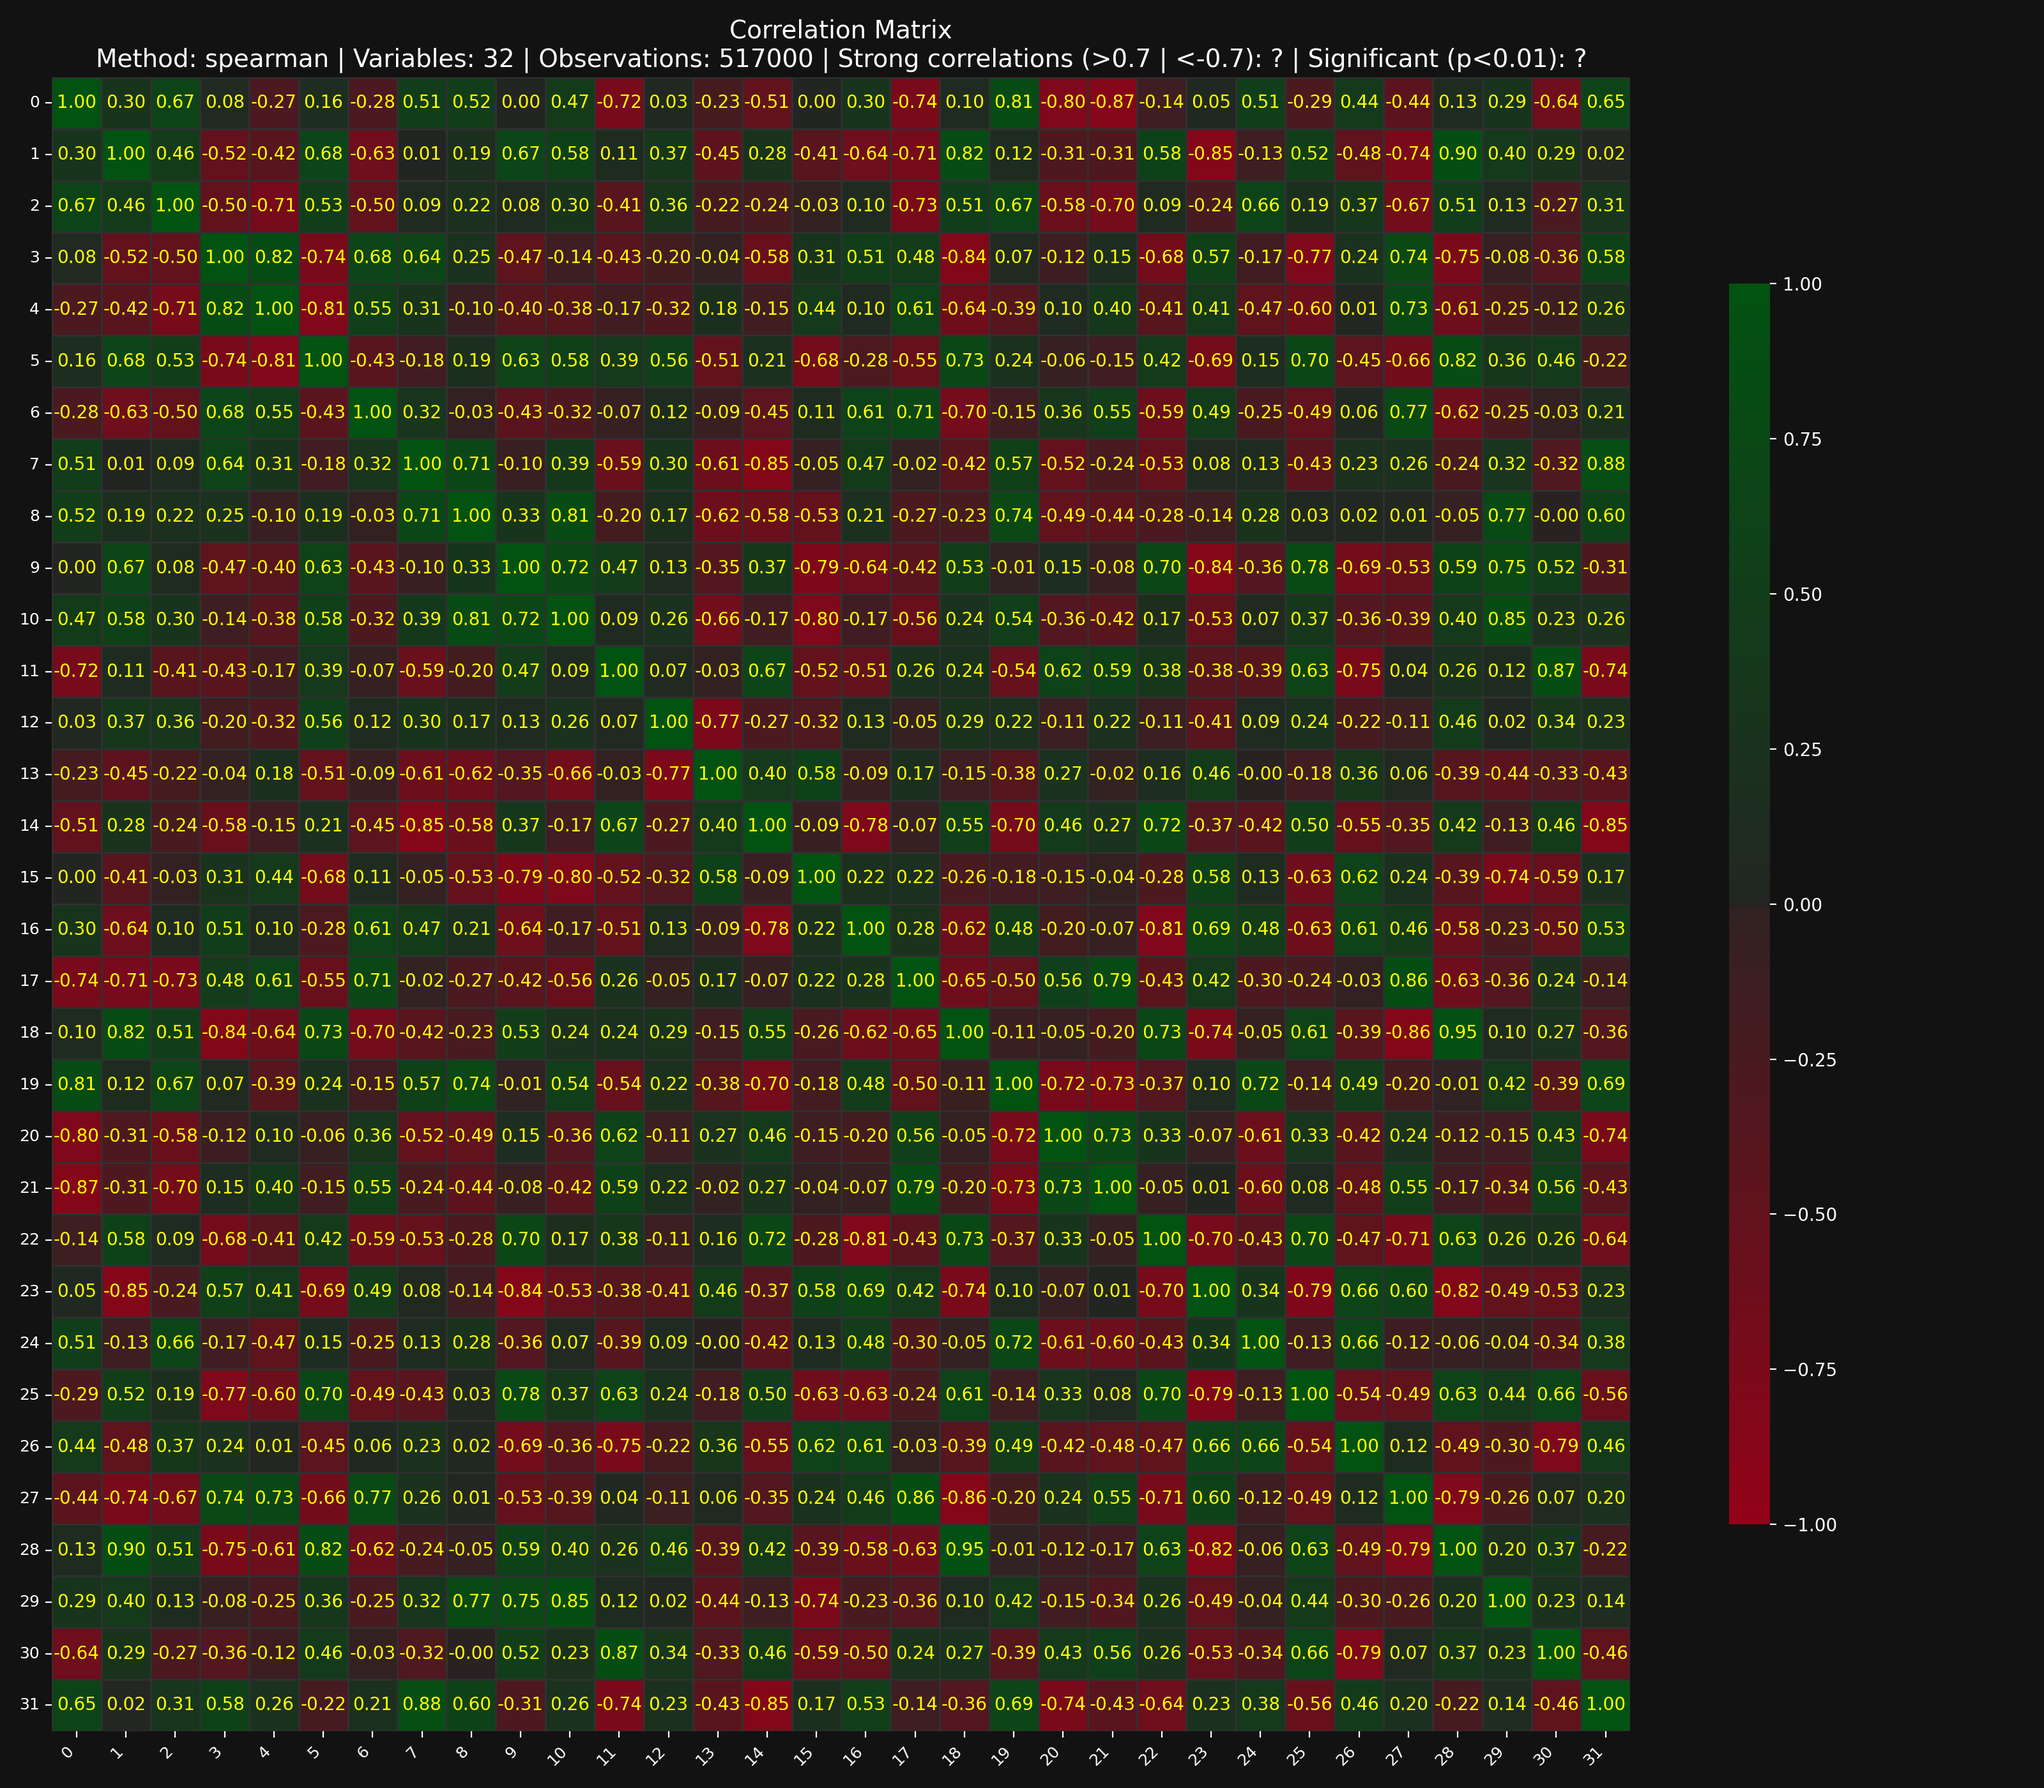
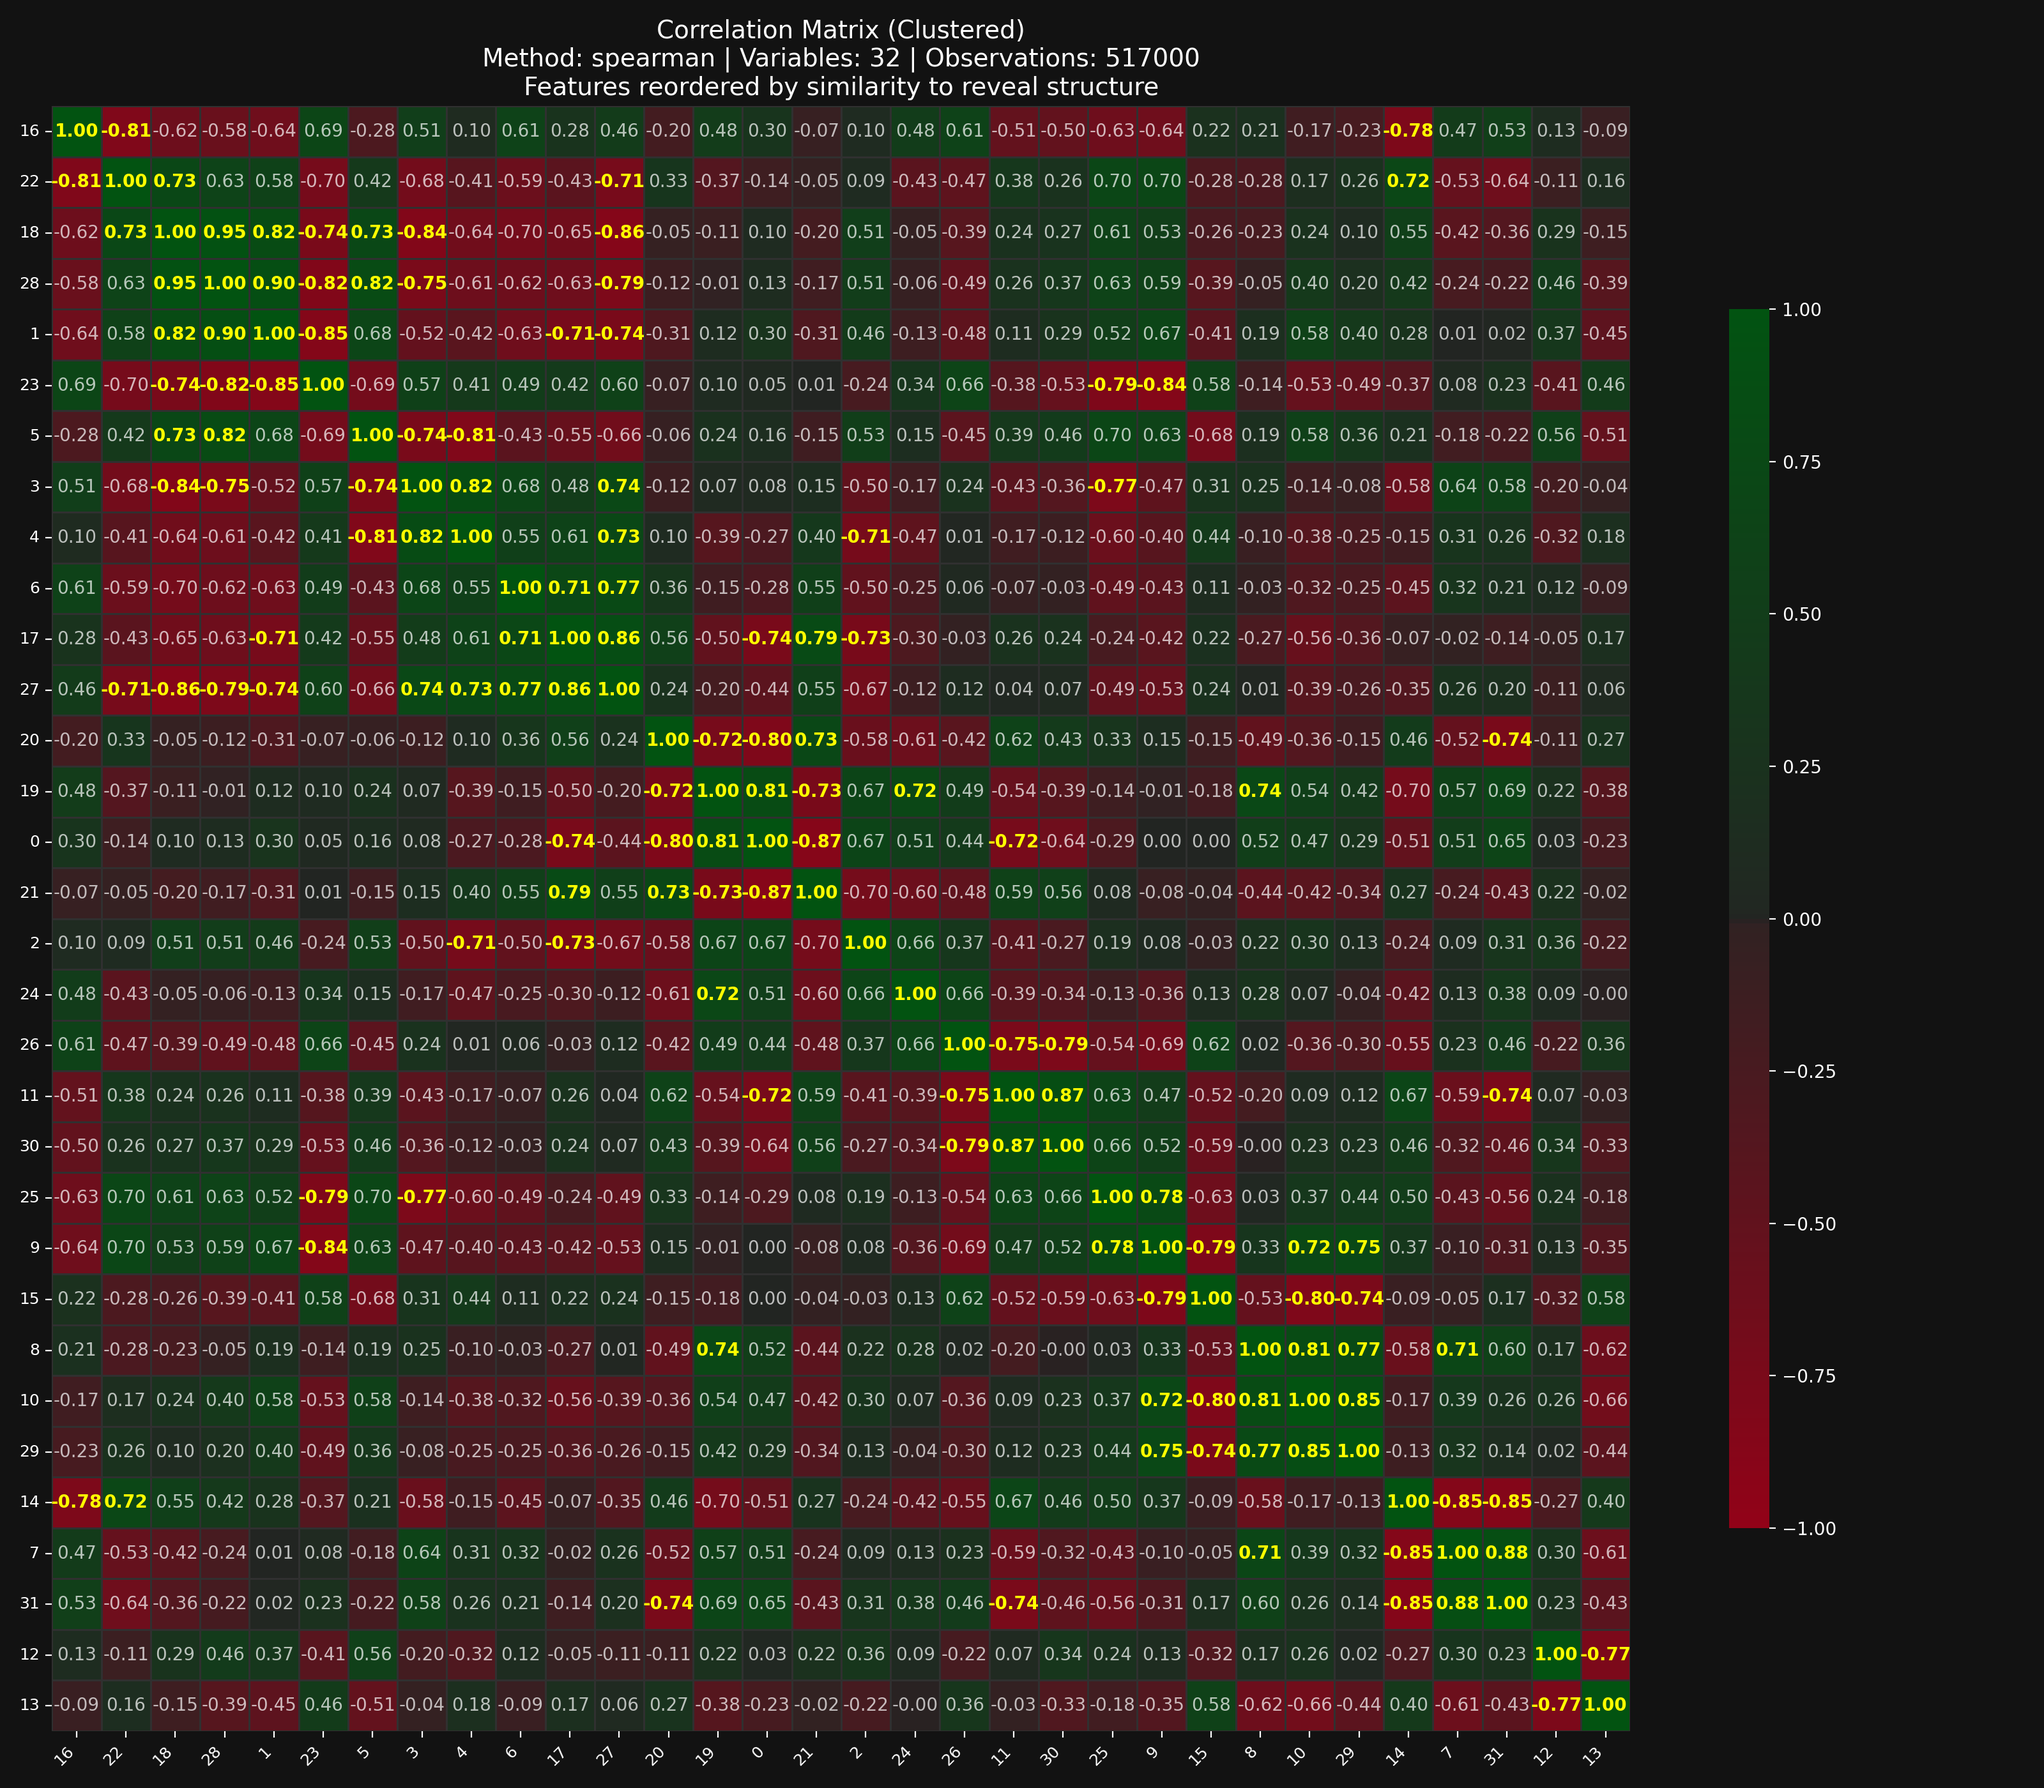
Fix: Cluster correlation heatmap to reveal structure
Update eda_returns.py to apply hierarchical clustering (Ward's method)
to the correlation matrix before plotting. This reorders the features
to group correlated variables together, addressing the issue where the
previous plot looked 'random' due to arbitrary feature ordering.
Also enhances the heatmap style with a dark theme and conditional
text coloring for readability.

diff --git a/competition_package/scripts/eda_returns.py b/competition_package/scripts/eda_returns.py
@@ -1,6 +1,6 @@
 """
 Quick EDA for 32-dim return-like features:
-- Spearman correlation matrix
+- Spearman correlation matrix (clustered for structure)
 - Per-feature distribution stats (mean/std/skew/kurt + tail quantiles)
 - Hist/box plots per feature (optional)
 
@@ -11,8 +11,8 @@ Usage (from repo root):
 Outputs:
   outputs/eda/feature_stats.json
   outputs/eda/corr_spearman.csv
-  outputs/eda/corr_spearman.png (if matplotlib available)
-  outputs/eda/hist_feature_*.png (optional; skip if too heavy)
+  outputs/eda/corr_spearman.png (clustered)
+  outputs/eda/hist_feature_*.png
 """
 
 import os
@@ -20,6 +20,8 @@ import json
 import numpy as np
 import pandas as pd
 from scipy.stats import spearmanr
+from scipy.cluster import hierarchy
+from scipy.spatial.distance import squareform
 
 
 def ensure_dir(path: str):
@@ -34,121 +36,106 @@ def main():
 
     dataset_path = os.path.join(root_dir, "datasets", "train.parquet")
     df = pd.read_parquet(dataset_path)
-    # Assuming feature columns are '0' through '31'
     feature_cols = [str(i) for i in range(32)]
     
-    # Identify relevant columns for correlation matrix
-    # Based on the image, there are additional columns like 'MASSI_9_25', 'BuPo', etc.
-    # and also 'returns_lagX', 'day_of_week_cos', 'day_of_week_sin', 'target', 'ticker'
-    # For now, let's include the 32 features and a few from EDA.py and the image
+    df_features = df[feature_cols].copy()
     
-    # For a precise match with the image, we would need to know the exact columns used
-    # in the original EDA that generated the image.
-    # Let's try to infer from the image and current common feature names.
-    # The image shows 'returns_lagX', 'MASSI_9_25', 'BuPo', 'BePo', '-DI', '+DI', 'ADX',
-    # 'ATRr_14', 'BBP', 'BBB', 'MACD_Signal', 'MACD', 'RSI_14', 'returns',
-    # 'day_of_week_cos', 'day_of_week_sin', 'target', 'ticker'.
-    # These are likely generated features or metadata.
-    # For this script, we'll focus on the '0'-'31' features and add some mock ones for illustration
-    # as the current 'train.parquet' only contains 0-31 and seq_ix, step_in_seq, need_prediction.
-    # To truly replicate, we'd need to re-generate these features first.
-    
-    # For the purpose of making a similar plot, let's create a dummy DataFrame
-    # that includes the feature_cols and some of the additional columns seen in the image.
-    # This is a placeholder and would need actual feature generation in a real scenario.
-    
-    # If the train.parquet only has '0' to '31', we need to augment it or assume these are generated.
-    # Given the task is to make the plot similar, let's assume we can construct a DataFrame
-    # with these columns for correlation analysis.
-    
-    # Let's try to mimic the columns if they exist in the original df, or create dummy ones.
-    # The original df has columns 'seq_ix', 'step_in_seq', 'need_prediction' and '0'...'31'.
-    
-    # Let's take '0' to '31' as our base set.
-    df_for_corr = df[feature_cols].copy()
-    
-    # To simulate the image, let's add some of the named features.
-    # These are usually generated from the base features. For a demo, let's simulate them.
-    # In a real setup, these would come from feature engineering scripts.
-    
-    # For simplicity, let's directly use the feature_cols for correlation.
-    # If a real `eda.py` generated more features, this part would be different.
-    
-    # Winsorize at current defaults (0.1/99.9) based on the image's description
-    data = df_for_corr.to_numpy()
+    # Winsorize at current defaults (0.1/99.9)
+    data = df_features.to_numpy()
     lower = np.quantile(data, 0.001, axis=0)
     upper = np.quantile(data, 0.999, axis=0)
     data_clip = np.clip(data, lower, upper)
     df_clip = pd.DataFrame(data_clip, columns=feature_cols)
 
     # Spearman correlation
+    print("Computing Spearman correlation...")
     corr = df_clip.corr(method="spearman")
     corr_path = os.path.join(out_dir, "corr_spearman.csv")
     corr.to_csv(corr_path)
     print(f"Saved Spearman correlation to {corr_path}")
 
+    # Clustering to reveal structure
+    print("Clustering features...")
+    # Convert correlation to distance
+    dist_matrix = 1 - np.abs(corr)
+    # Handle floating point errors (ensure it's a valid distance matrix)
+    np.fill_diagonal(dist_matrix.values, 0)
+    dist_condensed = squareform(dist_matrix)
+    
+    # Hierarchical clustering (Ward's method)
+    linkage = hierarchy.linkage(dist_condensed, method='ward')
+    # Get the optimal order of leaves
+    dendro = hierarchy.dendrogram(linkage, no_plot=True)
+    optimal_order = dendro['leaves']
+    
+    # Reorder the correlation matrix
+    corr_clustered = corr.iloc[optimal_order, optimal_order]
+    
     try:
         import matplotlib.pyplot as plt
         import seaborn as sns
 
-        # Set a dark theme as in the image
         plt.style.use('dark_background')
         plt.rcParams.update({
             "text.color": "white",
             "axes.labelcolor": "white",
             "xtick.color": "white",
             "ytick.color": "white",
-            "axes.facecolor": "#202020", # Dark grey for axes background
-            "figure.facecolor": "#121212", # Even darker for figure background
+            "axes.facecolor": "#202020",
+            "figure.facecolor": "#121212",
             "savefig.facecolor": "#121212"
         })
 
-        fig, ax = plt.subplots(figsize=(16, 14)) # Adjust size for readability
+        fig, ax = plt.subplots(figsize=(16, 14))
         
-        # Custom colormap to match the image: green for positive, red for negative, dark for zero
-        cmap = sns.diverging_palette(10, 130, as_cmap=True, s=99, l=30, center="dark") # Red-Green diverging, dark center
+        # Custom colormap: Red (neg) -> Dark -> Green (pos)
+        cmap = sns.diverging_palette(10, 130, as_cmap=True, s=99, l=30, center="dark")
 
         sns.heatmap(
-            corr,
-            cmap=cmap, # Use the custom colormap
+            corr_clustered,
+            cmap=cmap,
             vmin=-1,
             vmax=1,
             center=0,
-            annot=True, # Show correlation values on the heatmap
-            fmt=".2f", # Format annotations to two decimal places
-            linewidths=0.5, # Add lines between cells for better separation
-            linecolor="#303030", # Darker line color
-            cbar_kws={'shrink': 0.75, 'aspect': 30}, # Adjust colorbar size
-            ax=ax # Ensure heatmap plots on the created axes
+            annot=True,
+            fmt=".2f",
+            linewidths=0.5,
+            linecolor="#303030",
+            cbar_kws={'shrink': 0.75, 'aspect': 30},
+            ax=ax
         )
         
-        # Customize annotations color to yellow, like in the image
+        # Highlight strong correlations
         for text in ax.texts:
-            text.set_color('yellow')
+            try:
+                val = float(text.get_text())
+                if abs(val) > 0.7:
+                    text.set_color('yellow')
+                    text.set_weight('bold')
+                else:
+                    text.set_color('white')
+                    text.set_alpha(0.7)
+            except:
+                pass
 
         ax.set_title(
-            "Correlation Matrix\n"
-            f"Method: spearman | Variables: {len(corr.columns)} | Observations: {len(df_clip)} | "
-            # Adding placeholders for Strong correlations and Significant p-values
-            # These would require more complex calculation for exact match if original df includes them
-            f"Strong correlations (>0.7 | <-0.7): ? | Significant (p<0.01): ?",
+            "Correlation Matrix (Clustered)\n"
+            f"Method: spearman | Variables: {len(corr.columns)} | Observations: {len(df_clip)}\n"
+            f"Features reordered by similarity to reveal structure",
             color='white',
             fontsize=14
         )
         
-        # Rotate x-axis labels to match the image style
         plt.xticks(rotation=45, ha='right', fontsize=9)
         plt.yticks(rotation=0, fontsize=9)
-        plt.tick_params(axis='x', colors='white')
-        plt.tick_params(axis='y', colors='white')
-
+        
         plt.tight_layout()
         heatmap_path = os.path.join(out_dir, "corr_spearman.png")
         plt.savefig(heatmap_path, dpi=200)
         plt.close()
-        print(f"Saved correlation heatmap to {heatmap_path}")
+        print(f"Saved clustered correlation heatmap to {heatmap_path}")
     except Exception as e:
-        print(f"Skipping heatmap (matplotlib/seaborn issue): {e}")
+        print(f"Skipping heatmap: {e}")
 
     # Per-feature stats
     stats = {}
@@ -169,20 +156,13 @@ def main():
         json.dump(stats, f, indent=2)
     print(f"Saved feature stats to {stats_path}")
 
-    # Optional hist/box plots per feature (lightweight)
+    # Optional hist/box plots
     try:
-        # Re-apply dark style if it was reset, or ensure it's active
+        import matplotlib.pyplot as plt
         plt.style.use('dark_background')
-        plt.rcParams.update({
-            "text.color": "white",
-            "axes.labelcolor": "white",
-            "xtick.color": "white",
-            "ytick.color": "white",
-            "axes.facecolor": "#202020",
-            "figure.facecolor": "#121212",
-            "savefig.facecolor": "#121212"
-        })
-
+        
+        # Only plot first 5 to save time if needed, or all
+        # Plotting all as requested previously
         for col in feature_cols:
             fig, ax = plt.subplots(figsize=(4, 3))
             ax.hist(df_clip[col], bins=50, alpha=0.7, color="steelblue")
